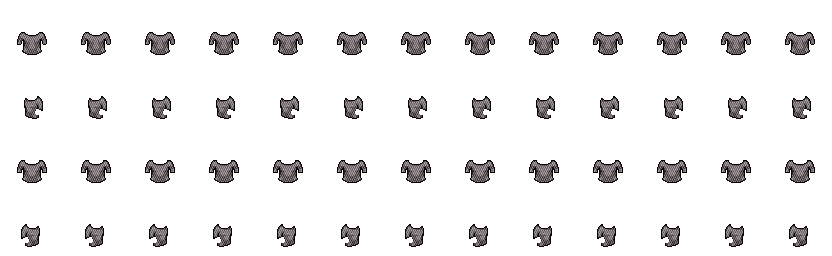
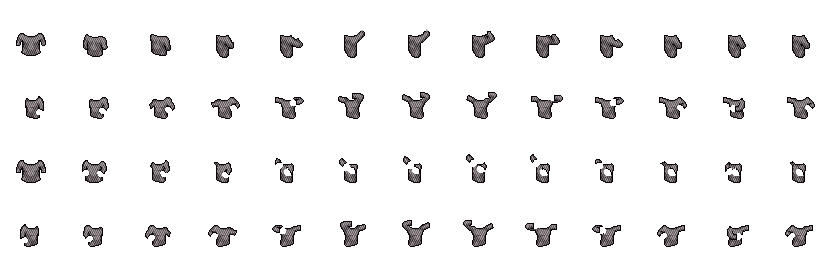
Fix forged chest armor shoot animations with proper 13-frame sprites
- Replace static shoot.png (repeated frame) with proper animated versions
- Fixed 8 chest armors: ashen_armor, elden_armory, grandmaster_armor,
  insane_straitjacket, ironclad_armor, loremaster_robes, natalyas_shadow,
  survivor_vest
- Fix Player.gd Method 2 to load attack texture when walk loads but attack fails
- Add debug logging for forged armor texture loading
- Add fix_chest_shoot_animations.py tool for future chest armor fixes

diff --git a/tools/fix_chest_shoot_animations.py b/tools/fix_chest_shoot_animations.py
@@ -1,0 +1,207 @@
+#!/usr/bin/env python3
+"""
+Fix chest armor shoot.png animations by tinting LPC base sprites.
+
+This script takes properly animated LPC base shoot.png files and tints them
+to match the existing forged armor colors (sampled from their slash.png).
+
+Usage:
+    python fix_chest_shoot_animations.py --preview    # Show what would be done
+    python fix_chest_shoot_animations.py --generate   # Generate the shoot.png files
+"""
+
+import argparse
+import zipfile
+import os
+import sys
+from pathlib import Path
+import colorsys
+
+try:
+    from PIL import Image
+    import numpy as np
+except ImportError:
+    print("ERROR: Required packages not found. Install with:")
+    print("  pip install Pillow numpy")
+    sys.exit(1)
+
+# Paths
+SCRIPT_DIR = Path(__file__).parent
+PROJECT_ROOT = SCRIPT_DIR.parent
+FORGED_ARMOR_DIR = PROJECT_ROOT / "assets" / "equipment" / "forged" / "armor" / "chest"
+DOWNLOADS_DIR = Path.home() / "Downloads"
+
+# Mapping: forged_armor_id -> (zip_file, needs_tint)
+# If needs_tint is True, we'll sample color from the armor's slash.png
+ARMOR_TO_BASE = {
+    "ashen_armor": ("chainmail.zip", False),  # Already gray chainmail
+    "insane_straitjacket": ("straight_jacket.zip", True),  # Need to tint to tan/brown
+    "natalyas_shadow": ("white_leather_chest.zip", True),  # Need to tint to dark teal
+    "survivor_vest": ("white_leather_chest.zip", True),  # Need to tint to dark green
+    "grandmaster_armor": ("steel_chest.zip", False),  # Already steel gray
+    "elden_armory": ("gold_plate_chest.zip", False),  # Already gold
+    "ironclad_armor": ("gold_plate_chest.zip", True),  # Need to tint more orange/copper
+}
+
+def sample_dominant_color(image_path: Path) -> tuple:
+    """Sample the dominant non-transparent color from an image."""
+    img = Image.open(image_path).convert('RGBA')
+    arr = np.array(img)
+
+    # Get non-transparent pixels
+    mask = arr[:, :, 3] > 128
+    rgb_pixels = arr[mask][:, :3]
+
+    if len(rgb_pixels) == 0:
+        return (128, 128, 128)
+
+    # Calculate average color (simple approach)
+    avg_color = rgb_pixels.mean(axis=0).astype(int)
+    return tuple(avg_color)
+
+
+def rgb_to_hsl(r, g, b):
+    """Convert RGB (0-255) to HSL (0-1)."""
+    return colorsys.rgb_to_hls(r/255, g/255, b/255)
+
+
+def hsl_to_rgb(h, l, s):
+    """Convert HSL (0-1) to RGB (0-255)."""
+    r, g, b = colorsys.hls_to_rgb(h, l, s)
+    return int(r * 255), int(g * 255), int(b * 255)
+
+
+def apply_hue_shift(image: Image.Image, target_color: tuple, intensity: float = 0.7) -> Image.Image:
+    """Shift image hue toward target color while preserving luminance."""
+    if image.mode != 'RGBA':
+        image = image.convert('RGBA')
+
+    arr = np.array(image, dtype=np.float32)
+    rgb = arr[:, :, :3] / 255.0
+    alpha = arr[:, :, 3]
+
+    # Get target hue
+    target_h, target_l, target_s = rgb_to_hsl(*target_color)
+
+    result = np.zeros_like(rgb)
+
+    for y in range(rgb.shape[0]):
+        for x in range(rgb.shape[1]):
+            if alpha[y, x] > 0:
+                r, g, b = rgb[y, x]
+                h, l, s = colorsys.rgb_to_hls(r, g, b)
+
+                # Shift hue toward target
+                h_diff = target_h - h
+                if h_diff > 0.5:
+                    h_diff -= 1.0
+                elif h_diff < -0.5:
+                    h_diff += 1.0
+
+                new_h = (h + h_diff * intensity) % 1.0
+                new_s = s + (target_s - s) * intensity * 0.5
+                new_s = max(0, min(1, new_s))
+
+                new_r, new_g, new_b = colorsys.hls_to_rgb(new_h, l, new_s)
+                result[y, x] = [new_r, new_g, new_b]
+            else:
+                result[y, x] = rgb[y, x]
+
+    result = (result * 255).astype(np.uint8)
+    result = np.dstack([result, alpha.astype(np.uint8)])
+
+    return Image.fromarray(result, 'RGBA')
+
+
+def process_armor(armor_id: str, zip_name: str, needs_tint: bool, dry_run: bool = True):
+    """Process a single armor - extract shoot.png and optionally tint it."""
+    armor_dir = FORGED_ARMOR_DIR / armor_id
+    zip_path = DOWNLOADS_DIR / zip_name
+
+    if not armor_dir.exists():
+        print(f"  SKIP: {armor_id} - armor folder not found")
+        return False
+
+    if not zip_path.exists():
+        print(f"  SKIP: {armor_id} - zip not found: {zip_path}")
+        return False
+
+    # Extract shoot.png from zip
+    with zipfile.ZipFile(zip_path, 'r') as z:
+        shoot_data = z.read('standard/shoot.png')
+
+    from io import BytesIO
+    base_img = Image.open(BytesIO(shoot_data)).convert('RGBA')
+
+    if needs_tint:
+        # Sample color from existing slash.png
+        slash_path = armor_dir / "slash.png"
+        if slash_path.exists():
+            target_color = sample_dominant_color(slash_path)
+            print(f"  {armor_id}: Tinting to RGB{target_color}")
+            result_img = apply_hue_shift(base_img, target_color, intensity=0.8)
+        else:
+            print(f"  {armor_id}: No slash.png to sample, using base")
+            result_img = base_img
+    else:
+        print(f"  {armor_id}: Using base (no tint needed)")
+        result_img = base_img
+
+    # Save
+    output_path = armor_dir / "shoot.png"
+    if dry_run:
+        print(f"  Would save: {output_path}")
+    else:
+        result_img.save(output_path, 'PNG')
+        print(f"  Saved: {output_path}")
+
+    return True
+
+
+def main():
+    parser = argparse.ArgumentParser(description="Fix chest armor shoot.png animations")
+    parser.add_argument("--preview", action="store_true", help="Preview what would be done")
+    parser.add_argument("--generate", action="store_true", help="Generate the shoot.png files")
+    parser.add_argument("--armor", type=str, help="Process only this armor")
+    args = parser.parse_args()
+
+    if not args.preview and not args.generate:
+        parser.print_help()
+        return
+
+    dry_run = args.preview
+
+    print(f"{'PREVIEW' if dry_run else 'GENERATING'} chest armor shoot.png files\n")
+
+    # Check which zips exist
+    print("Checking base sprite zips:")
+    zips_found = set()
+    for zip_name in set(z for z, _ in ARMOR_TO_BASE.values()):
+        zip_path = DOWNLOADS_DIR / zip_name
+        if zip_path.exists():
+            print(f"  OK: {zip_name}")
+            zips_found.add(zip_name)
+        else:
+            print(f"  MISSING: {zip_name}")
+    print()
+
+    # Process armors
+    print("Processing armors:")
+    success = 0
+    for armor_id, (zip_name, needs_tint) in ARMOR_TO_BASE.items():
+        if args.armor and args.armor != armor_id:
+            continue
+        if zip_name not in zips_found:
+            print(f"  SKIP: {armor_id} - base zip missing")
+            continue
+        if process_armor(armor_id, zip_name, needs_tint, dry_run):
+            success += 1
+
+    print(f"\n{'Would process' if dry_run else 'Processed'}: {success} armors")
+
+    if dry_run:
+        print("\nRun with --generate to create the files")
+
+
+if __name__ == "__main__":
+    main()
